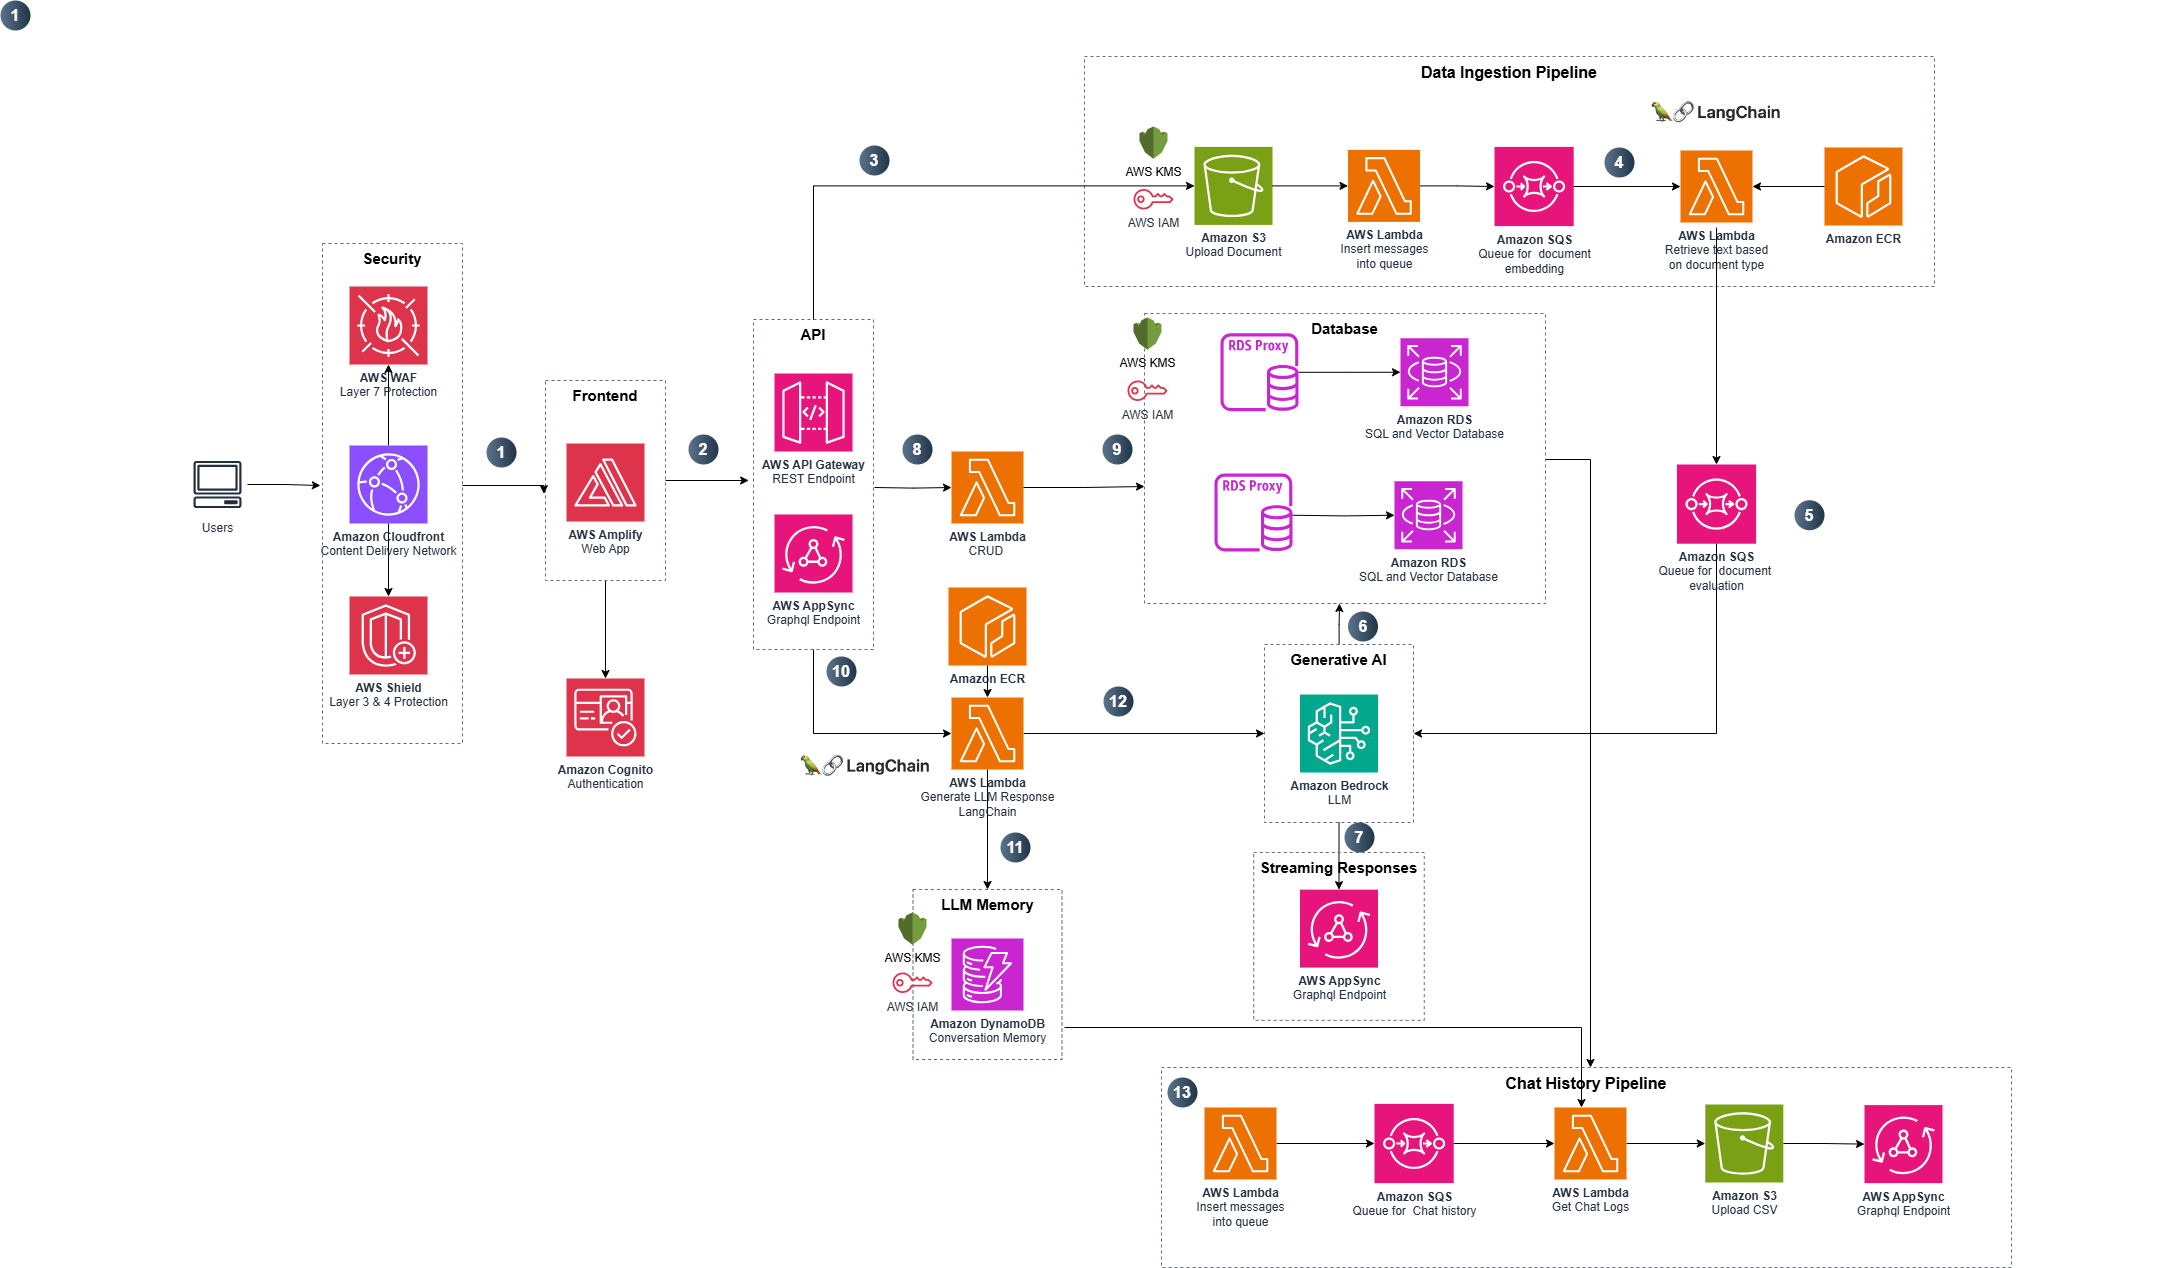
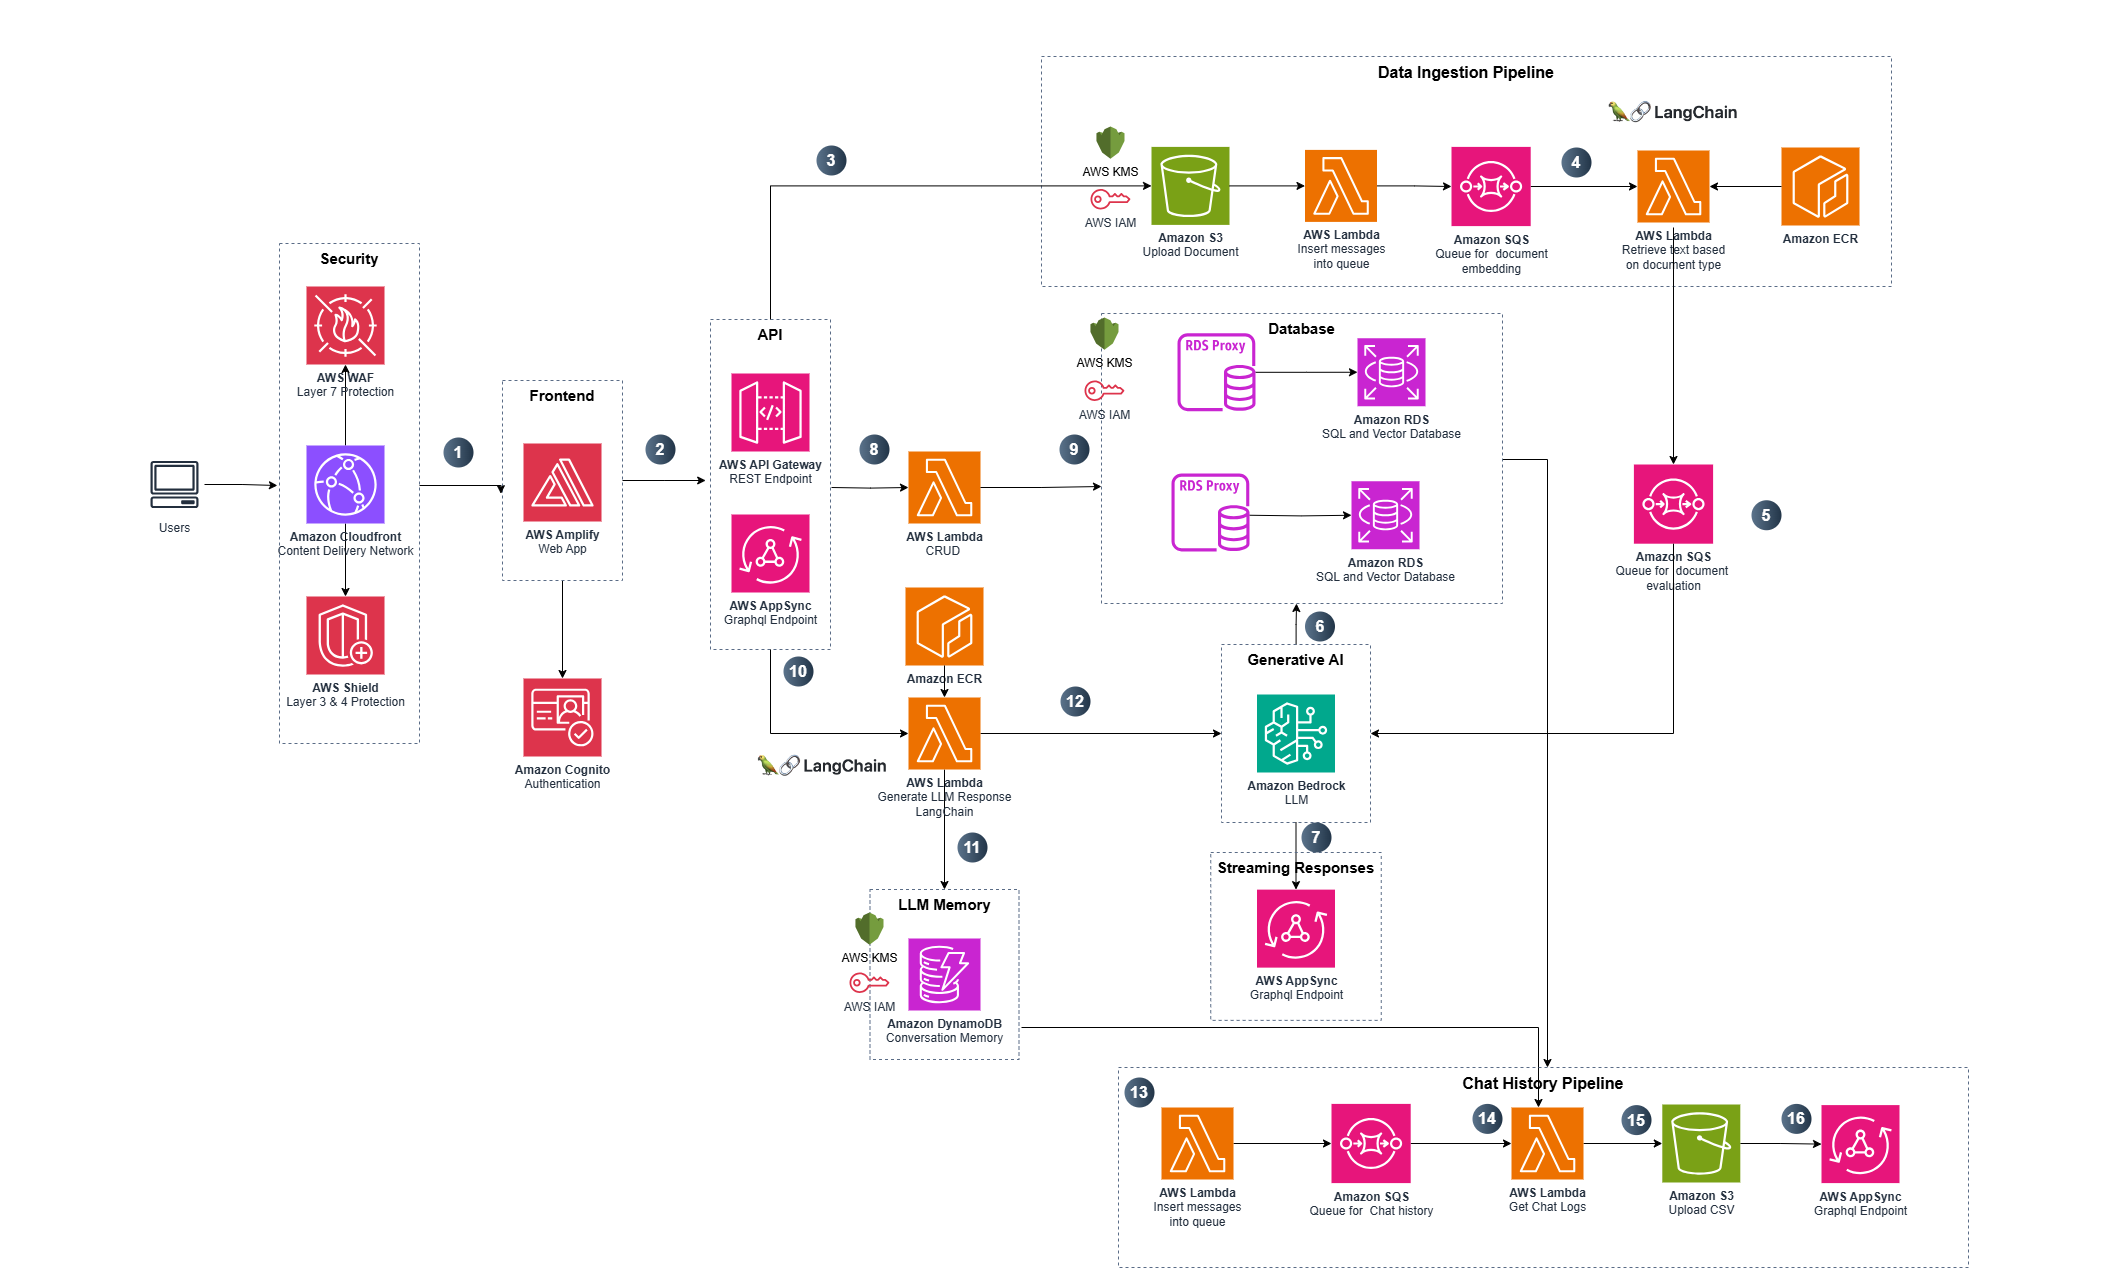
fix: changed the architecture deep dive

diff --git a/docs/architectureDeepDive.md b/docs/architectureDeepDive.md
@@ -9,15 +9,19 @@
 1. The user sends a request to the application hosted on AWS Amplify.
 2. Amplify integrates with the backend API Gateway.
 3. Admins can upload course materials to the application, which are stored in an S3 bucket using a pre-signed upload URL.
-4. Adding a new DSA file to the S3 bucket triggers the data ingestion workflow. The Lambda function runs a Docker container with Amazon Elastic Container Registry (ECR). 
-5. The Lambda function embeds the text from uploaded files into vectors using Amazon Bedrock. This project uses the Amazon Titan Text Embeddings V2 model to generate embeddings.
+4. Adding a new DSA file to the S3 bucket triggers the data ingestion workflow. Amessage is sent to Amazon SQS which triggers the Lambda function. The Lambda function runs a Docker container with Amazon Elastic Container Registry (ECR). 
+5. A message is sent to Amazon SQS for document evaluation and the Lambda function embeds the text from uploaded files into vectors using Amazon Bedrock. This project uses the Amazon Titan Text Embeddings V2 model to generate embeddings.
 6. The lambda function stores the vectors in the PostgreSQL database.
-7. Admins can perform DSA management/access actions by sending an API request which invokes a lambda function.
-8. This lambda function interacts with Amazon RDS.
-9. Users can start chatting with the LLM by sending an API request that invokes the Lambda function to generate a response. The Lambda function runs a Docker container with Amazon ECR.
-10. The lambda function stores the embedded messages in Amazon DynamoDB
-11. This lambda function uses RAG architecture to retrieve the response from LLMs hosted on Amazon Bedrock augmented with the course's information stored in the Amazon RDS.
-
+7. The document evaluation is streamed to the frontend via AWS AppSync.
+8. Admins can perform DSA management/access actions by sending an API request which invokes a lambda function.
+9. This lambda function interacts with Amazon RDS.
+10. Users can start chatting with the LLM by sending an API request that invokes the Lambda function to generate a response. The Lambda function runs a Docker container with Amazon ECR.
+11. The lambda function stores the embedded messages in Amazon DynamoDB
+12. This lambda function uses RAG architecture to retrieve the response from LLMs hosted on Amazon Bedrock augmented with the course's information stored in the Amazon RDS.
+13. When an instructor clicks download chat logs, a lambda function is triggered to add the request to the SQS queue.
+14. An AWS Lambda function is triggered by the SQS queue to process the chat messages asynchronously.
+15. The processed chat messages are then stored in the Amazon S3 database for structured storage and retrieval.
+16. The Lambda function also interacts with AWS AppSync (GraphQL) to update the frontend chat interface in real-time, with notifications for when the CSV is finished downlaoding.
 ## Database Schema
 
 ![Database Schema](./images/database_schema.png)
